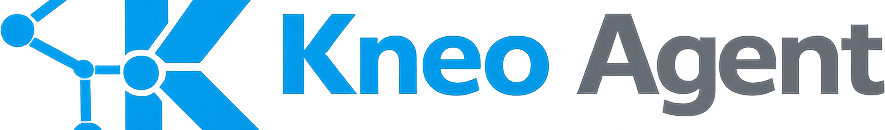
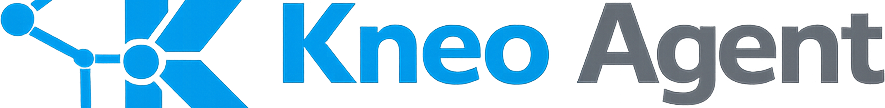
Publish site update from kneo_site

diff --git a/stylesheets/extra.css b/stylesheets/extra.css
@@ -55,7 +55,7 @@
    this wordmark's text fills ~62%, so the wordmark needs a taller
    CSS height to compensate. */
 .md-header__wordmark {
-  height: 2.8rem;
+  height: 1.5rem;
   width: auto;
   vertical-align: middle;
   display: inline-block;
